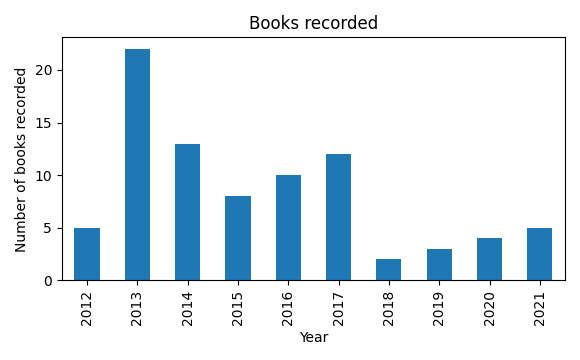
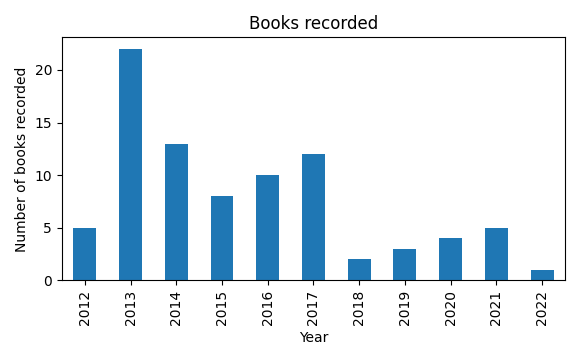
body

Changed region(s): [[0.1552, 0.1222, 0.9621, 0.9167], [0.9, 0.825, 0.9621, 0.9167], [0.1241, 0.7944, 0.1552, 0.9167]]

diff --git a/README.md b/README.md
@@ -6,13 +6,16 @@ The most significant events impacting the number of books I read are
 * The birth of my daughers in 2018/01 and 2019/08
 
 ### Statistics
-Total number of books read: 84  
-Books per month: 0.76 (2012/9 to 2021/11)
+Total number of books read: 85  
+Books per month: 0.75 (2012/9 to 2022/2)
 
 ![Books recorded by year](book_recorded.png)
 ![Books read per month](book_read.png)
 
 ### List of books
+*The body keeps the score*, Bessel van der Kolk  
+Finished: 2022.02.12
+
 *The Three-Body Problem*, Liu Cixin  
 Finished: 2021.11.22
 
